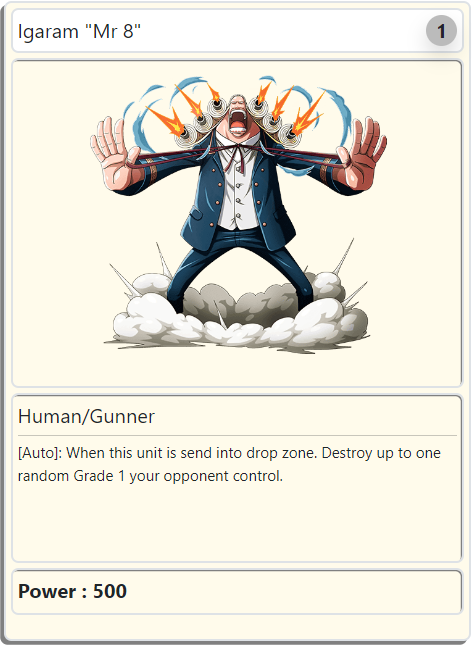
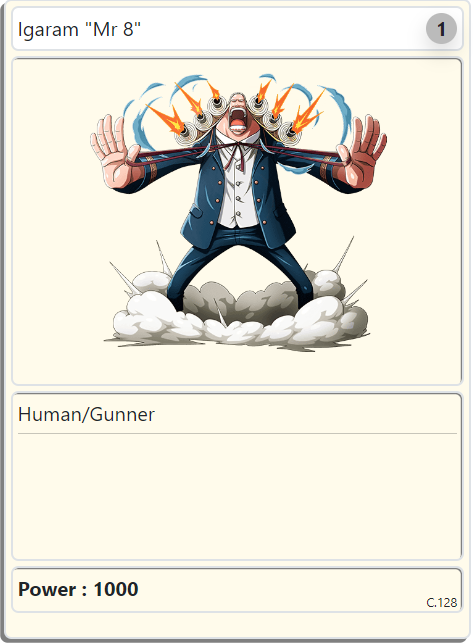
C127

Changed region(s): [[0.0, 0.0, 1.0, 1.0], [0.089, 0.9006, 0.2966, 0.9317], [0.2373, 0.4037, 0.2669, 0.4348]]

diff --git a/src/views/index.vue b/src/views/index.vue
@@ -2562,8 +2562,9 @@ export default {
                 job: 'Swordman',
                 special: ''
               },
-              text: '[Auto]: When this unit block. This unit get Power + 2000, until end this turn. If your life points is grether than 500, pay 500 life points and this unit get Power + 1000, until end this turn.',
-              power: 2500,
+              text: '',
+              // text: '[Auto]: When this unit block. This unit get Power + 2000, until end this turn. If your life points is grether than 500, pay 500 life points and this unit get Power + 1000, until end this turn.',
+              power: 3000,
               code: '135'
             },
             {
@@ -2576,8 +2577,9 @@ export default {
                 job: 'Fighter',
                 special: ''
               },
-              text: '[Act][1/Turn]: Discard a random card from your hand and put top of your deck into drop zone. This unit get Power + 3000 until end this turn.',
-              power: 2500,
+              text: '',
+              // text: '[Act][1/Turn]: Discard a random card from your hand and put top of your deck into drop zone. This unit get Power + 3000 until end this turn.',
+              power: 3000,
               code: '134'
             },
             {
@@ -2590,7 +2592,8 @@ export default {
                 job: 'Fighter',
                 special: 'Paramecia'
               },
-              text: '[Auto]: When this unit is send into drop zone. Draw two cards, then discard a random card from your hand.',
+              text: '[Auto]: When this unit is placed on battlefield. You may bind a random card from your hand, then increase your max mana equal to Grade that unit bind by this effect.',
+              // text: '[Auto]: When this unit is send into drop zone. Draw two cards, then discard a random card from your hand.',
               power: 500,
               code: '133'
             },
@@ -2604,8 +2607,9 @@ export default {
                 job: '',
                 special: ''
               },
-              text: '[Auto]: When this unit is placed on battlefield. Bind this card and Draw a card.',
-              power: 500,
+              text: '',
+              // text: '[Auto]: When this unit is placed on battlefield. Bind this card and Draw a card.',
+              power: 1000,
               code: '132'
             },
             {
@@ -2618,7 +2622,8 @@ export default {
                 job: 'Spellcaster',
                 special: ''
               },
-              text: '[Auto]: When this unit is send into drop zone. Draw a card.',
+              text: '[Auto]: When this unit is placed on battlefield. Put up to one random card from drop zone into your hand.',
+              // text: '[Auto]: When this unit is send into drop zone. Draw a card.',
               power: 500,
               code: '131'
             },
@@ -2660,8 +2665,9 @@ export default {
                 job: 'Gunner',
                 special: ''
               },
-              text: '[Auto]: When this unit is send into drop zone. Destroy up to one random Grade 1 your opponent control.',
-              power: 500,
+              text: '',
+              // text: '[Auto]: When this unit is send into drop zone. Destroy up to one random Grade 1 your opponent control.',
+              power: 1000,
               code: '128'
             },
             {
@@ -2674,7 +2680,7 @@ export default {
                 job: '',
                 special: ''
               },
-              text: '[Auto]: When this unit is send into drop zone. Search your deck. Put up to one "Nefertari Vivi" in its card name into your hand. Shuffle your deck.',
+              text: '[Auto]: When this unit is placed on battlefield. You may bind this unit, then put up to one "Nefertari Vivi" from bind zone into your hand.',
               power: 500,
               code: '127'
             },
@@ -2688,8 +2694,8 @@ export default {
                 job: 'Fighter',
                 special: ''
               },
-              text: '[Auto]: When this unit is send into drop zone. All Grade 1 unit your control get Power + 500 until end this turn.',
-              power: 500,
+              text: '',
+              power: 1000,
               code: '126'
             },
             {
@@ -2702,7 +2708,7 @@ export default {
                 job: 'Fighter',
                 special: ''
               },
-              text: '[Auto]: When this unit is placed on battlefield. Search your deck. Put up to one grade 1 into drop zone, then shuffle your deck and draw two cards.',
+              text: '[Auto]: When this unit is placed on battlefield. You may bind this unit, then draw two cards.',
               power: 500,
               code: '125'
             },
@@ -2716,8 +2722,8 @@ export default {
                 job: 'Fighter',
                 special: ''
               },
-              text: '[Auto]: When this unit is placed on battlefield. Put this unit to drop zone. Call up to one "Nefertari Vivi" from your deck. Shuffle your deck.',
-              power: 500,
+              text: '',
+              power: 1000,
               code: '124'
             },
             {
@@ -2731,7 +2737,6 @@ export default {
                 special: ''
               },
               text: '[Auto]: When this unit is send into drop zone from your field. Call up to one "Laboon" in its card name from your deck, then shuffle your deck.',
-              // text: '[Auto]: When this unit is send into drop zone. Seacrh your deck. put up to one "Laboon" or "Brook" in its card name into drop zone. Shuffle your deck.',
               power: 500,
               code: '123'
             },

diff --git a/src/views/arena/new-arena/index.vue b/src/views/arena/new-arena/index.vue
@@ -2597,6 +2597,8 @@ export default {
       if (data.unit.card.code === '104') { this.EFF104(data) }
       if (data.unit.card.code === '120') { this.EFF120_AUTO(data) }
       if (data.unit.card.code === '122') { this.EFF122(data) }
+      if (data.unit.card.code === '125') { this.EFF125(data) }
+      if (data.unit.card.code === '127') { this.EFF127(data) }
     },
     AUTO_ON_SEND_TO_DROP (data) {
       if (data.unit.card.code === '009') { this.EFF009(data) }
@@ -5634,6 +5636,41 @@ export default {
       data.name = 'Laboon'
       data.todo = 'CALL FROM DECK'
       this.SEARCH_DECK_FOR_NAME(data)
+    },
+    EFF125 (data) { // Nefertari Vivi
+      this.$swal.fire({
+        title: 'Aktifkan Efek Vivi ?',
+        showCancelButton: true,
+        confirmButtonText: 'YES',
+        cancelButtonText: 'NO'
+      }).then((result) => {
+        if (result.isConfirmed) {
+          data.cost = 'bind on field'
+          this.COST(data)
+          for (let i = 0; i < 2; i++) {
+            this.draw({ who: data.who })
+          }
+        }
+      })
+    },
+    EFF127 (data) { // Karoo
+      this.$swal.fire({
+        title: 'Aktifkan Efek Vivi ?',
+        showCancelButton: true,
+        confirmButtonText: 'YES',
+        cancelButtonText: 'NO'
+      }).then((result) => {
+        if (result.isConfirmed) {
+          data.cost = 'bind on field'
+          this.COST(data)
+          data.name = 'Nefertari Vivi'
+          data.todo = 'BIND TO HAND'
+          this.SEARCH_BIND_FOR_NAME(data)
+          // for (let i = 0; i < 2; i++) {
+          //   this.draw({ who: data.who })
+          // }
+        }
+      })
     }
   },
   created () {
